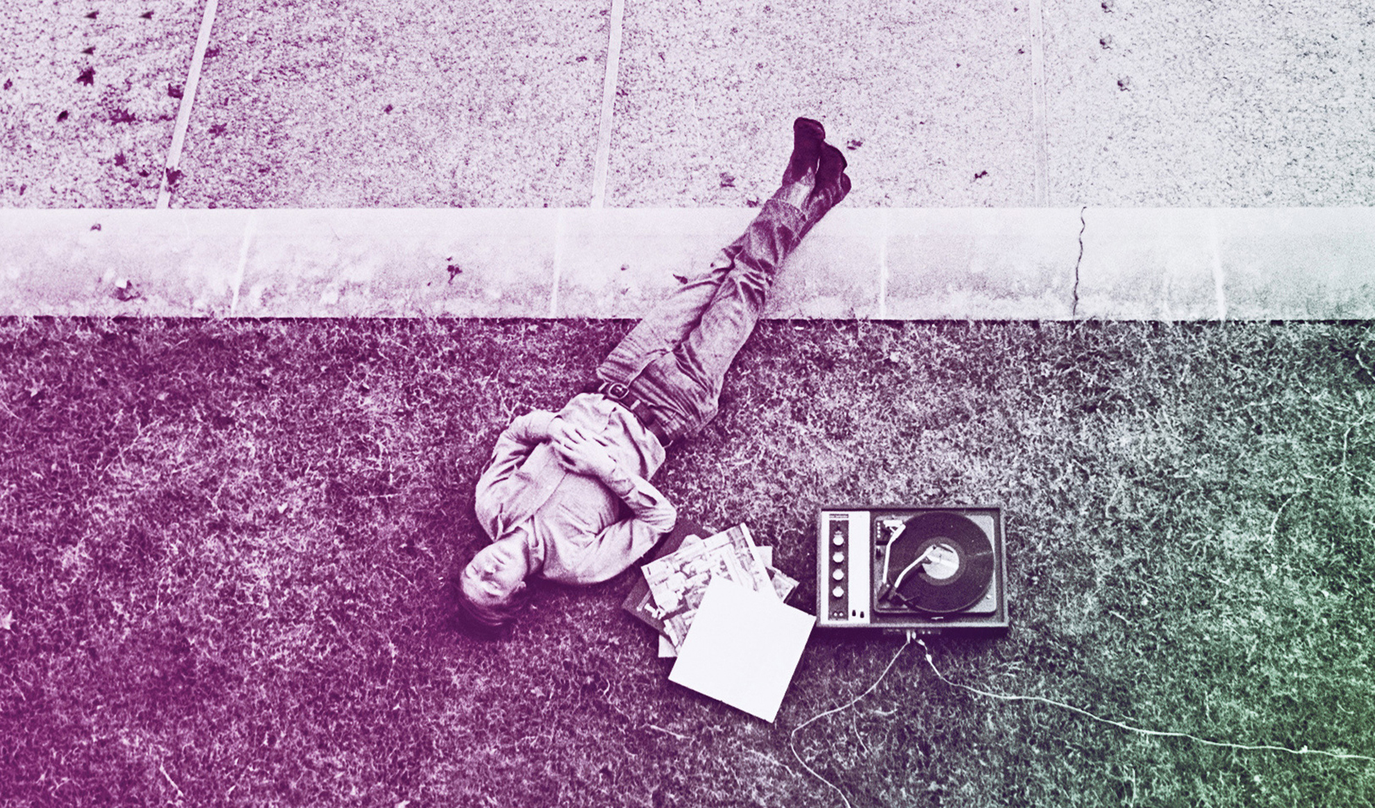
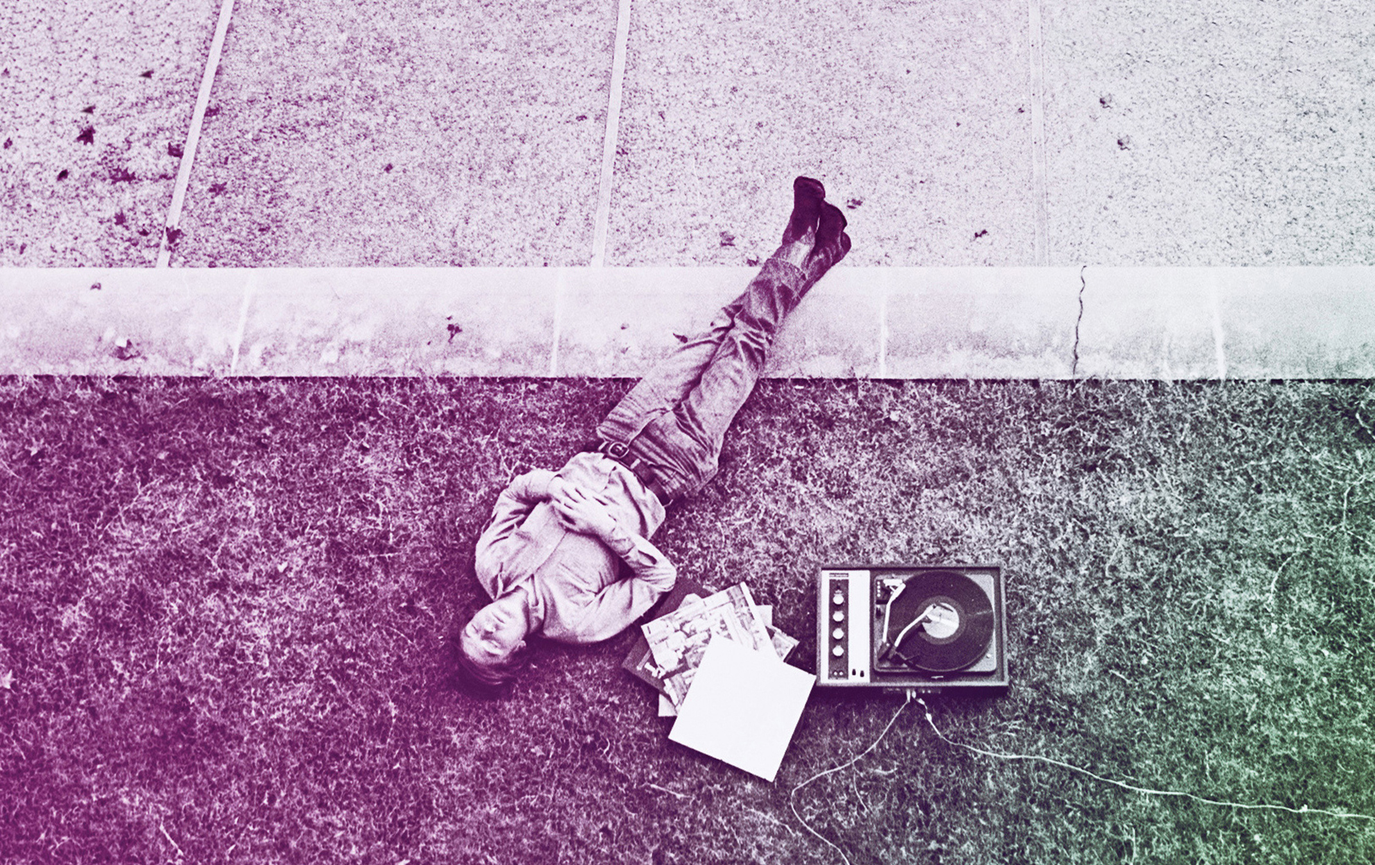
updated hero pic with taller version

diff --git a/main.css b/main.css
@@ -45,8 +45,16 @@ a:hover {
   border-bottom: 4px solid #b33996;
 }
 
+.image-link {
+  text-decoration: none;
+}
+a.image-link {
+  border: 0 none;
+  text-decoration: none;
+}
+
 .heropic {
-  background-image: url(Outdoor-records.jpg);
+  background-image: url(Outdoor-Records.jpg);
   background-position: center center;
   background-repeat: no-repeat;
   background-size: cover;
@@ -69,7 +77,7 @@ a:hover {
   margin: 0 auto;
   padding-top: 20px;
   border-top-style: dashed;
-  border-top-width: thin;
+  border-top-width: medium;
   width: 40%;
 }
 
@@ -92,7 +100,7 @@ a:hover {
 
 .container {
   background-color: #F0F0F0;
-  margin-bottom: 0;
+  margin-bottom: 0 auto;
   padding-bottom: 26em;
 }
 
@@ -174,10 +182,26 @@ a:hover {
   padding: 0 8% 2em 8%;
   background-color: #F0F0F0;
 }
-.image-link {
-  text-decoration: none;
-}
-a.image-link {
-  border: 0 none;
-  text-decoration: none;
+
+
+/* ----------- iPad mini ----------- */
+
+/* Portrait and Landscape */
+@media only screen
+  and (min-device-width: 768px)
+  and (max-device-width: 1024px)
+  and (-webkit-min-device-pixel-ratio: 1) {
+    .heropic {
+      height: 750px;
+    }
+    .about {
+      width: 70%;
+    }
+    .col-1-3 {
+      width: 100%;
+      padding: 0 23% 2em 23%;
+    }
+    .littlerecstext {
+      width: 70%;
+    }
 }

diff --git a/index.html b/index.html
@@ -17,7 +17,7 @@
     <div class="vertical-contain">
       <div class ="vertical-center">
         <h1 style="letter-spacing:0.05em">Hello, I'm Doug</h1>
-        <h2>Always hard at work</h2>
+        <h2><b>Always hard at work</b></h2>
       </div>
     </div>
   </section>
